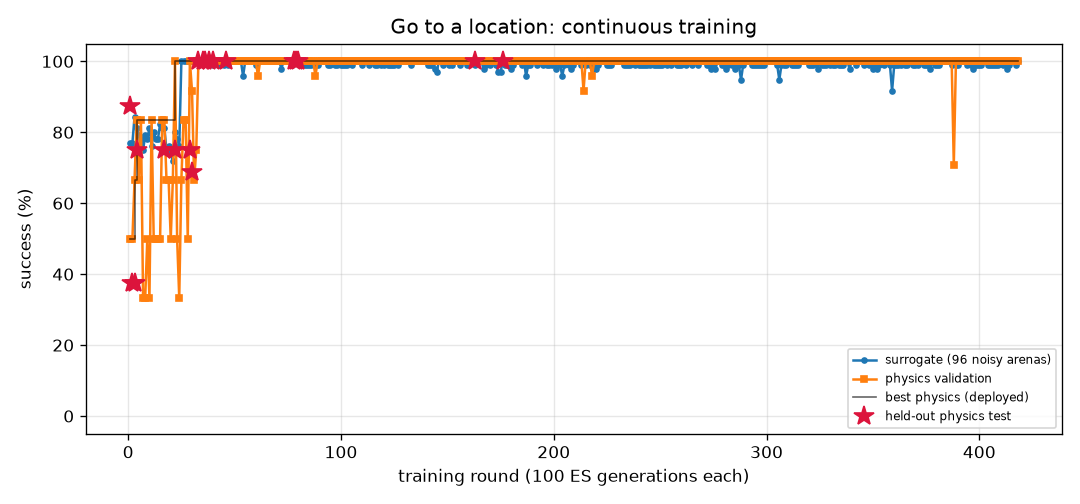
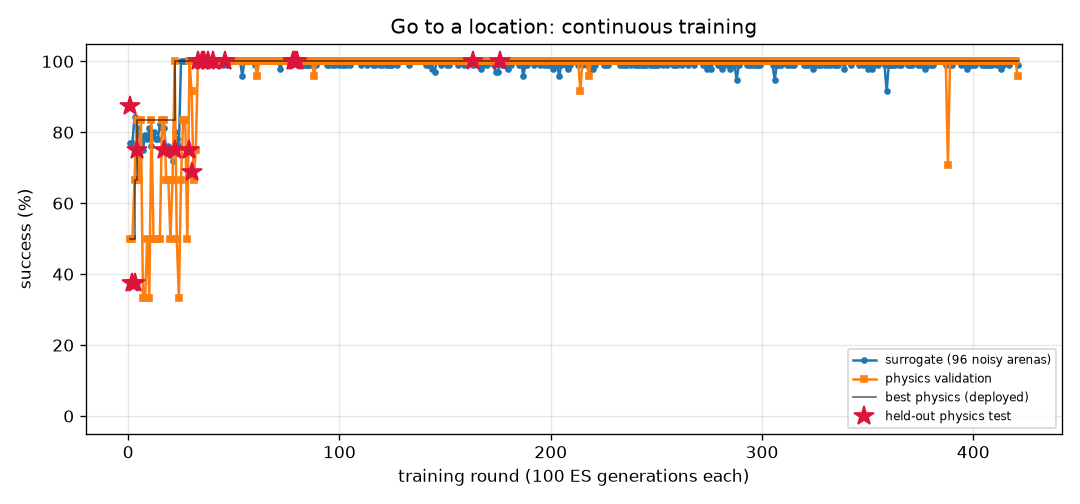
FlyLab: continuous training progress
- walk_forward: optimal, physics val 100% of 24, round 544
- turn: optimal, physics val 100% of 24, round 1374
- goto: optimal, physics val 100% of 24, round 421
- odor_seek: optimal, physics val 100% of 24, round 338
- odor_avoid: optimal, physics val 100% of 24, round 1151
- light_seek: optimal, physics val 100% of 24, round 623
- light_avoid: optimal, physics val 100% of 24, round 863

diff --git a/projects/09_flylab/training/goto/REPORT.md b/projects/09_flylab/training/goto/REPORT.md
@@ -1,14 +1,14 @@
 # Go to a location (`goto`) — training report
 
-*Auto-generated by `train_brains.py`, last updated 2026-11-25T21:44:23.*
+*Auto-generated by `train_brains.py`, last updated 2026-11-26T11:48:16.*
 
 ![curve](curve.png)
 
 | | |
 |---|---|
-| rounds | 418 |
-| ES generations | 41800 |
-| physics runs | 9982 |
+| rounds | 421 |
+| ES generations | 42100 |
+| physics runs | 10054 |
 | status | **optimal** |
 | best brain | round 176: physics validation **100%** on 24 arenas, surrogate 100% |
 | held-out physics test | **100%** on 32 unseen arenas (95% CI 89%-100%) (errors: [0.2, 0.32, 0.19, 0.24, 0.18, 0.2, 0.19, 0.17, 0.22, 0.23, 0.23, 0.26, 0.2, 0.19, 0.24, 0.23, 0.22, 0.24, 0.2, 0.22, 0.2, 0.2, 0.26, 0.19, 0.22, 0.18, 0.26, 0.22, 0.2, 0.26, 0.23, 0.23]) |
@@ -17,9 +17,6 @@ Physics error per arena: mm from target at the end (< 1.5 and standing still = s
 
 | round | level | gens | sigma | surrogate | physics val | val errors | test | note |
 |---:|---:|---:|---:|---:|---:|---|---:|---|
-| 379 | 3 | 37900 | 0.024 | 99% | 100% | [0.57, 0.53, 0.5, 0.35, 0.34, 0.41, 0.56, 0.43, 0.47, 0.36, 0.33, 0.33, 0.45, 0.32, 0.37, 0.42, 0.46, 0.51, 0.38, 0.42, 0.42, 0.34, 0.42, 0.38] |  |  |
-| 380 | 3 | 38000 | 0.025 | 99% | 100% | [0.63, 0.54, 0.55, 0.45, 0.42, 0.41, 0.6, 0.44, 0.58, 0.42, 0.4, 0.43, 0.55, 0.4, 0.43, 0.47, 0.59, 0.5, 0.4, 0.52, 0.44, 0.41, 0.57, 0.43] |  | restart from best |
-| 381 | 3 | 38100 | 0.024 | 99% | 100% | [0.54, 0.56, 0.42, 0.49, 0.41, 0.47, 0.51, 0.53, 0.55, 0.41, 0.41, 0.46, 0.56, 0.46, 0.47, 0.48, 0.57, 0.48, 0.41, 0.51, 0.48, 0.41, 0.57, 0.49] |  |  |
 | 382 | 3 | 38200 | 0.025 | 100% | 100% | [0.55, 0.55, 0.53, 0.56, 0.52, 0.55, 0.57, 0.56, 0.58, 0.53, 0.51, 0.53, 0.57, 0.52, 0.58, 0.57, 0.55, 0.54, 0.53, 0.58, 0.58, 0.55, 0.54, 0.55] |  |  |
 | 383 | 3 | 38300 | 0.024 | 100% | 100% | [0.56, 0.55, 0.5, 0.5, 0.55, 0.5, 0.56, 0.57, 0.59, 0.51, 0.5, 0.49, 0.59, 0.51, 0.55, 0.57, 0.57, 0.5, 0.51, 0.56, 0.57, 0.51, 0.58, 0.5] |  |  |
 | 384 | 3 | 38400 | 0.024 | 100% | 100% | [0.59, 0.54, 0.52, 0.48, 0.53, 0.5, 0.56, 0.57, 0.5, 0.51, 0.51, 0.48, 0.55, 0.49, 0.52, 0.56, 0.56, 0.51, 0.52, 0.51, 0.57, 0.52, 0.56, 0.49] |  | restart from best |
@@ -57,3 +54,6 @@ Physics error per arena: mm from target at the end (< 1.5 and standing still = s
 | 416 | 3 | 41600 | 0.024 | 100% | 100% | [0.56, 0.56, 0.6, 0.54, 0.43, 0.52, 0.54, 0.55, 0.58, 0.43, 0.45, 0.5, 0.59, 0.49, 0.49, 0.5, 0.59, 0.54, 0.43, 0.55, 0.49, 0.41, 0.59, 0.54] |  | restart from best |
 | 417 | 3 | 41700 | 0.024 | 99% | 100% | [0.42, 0.35, 0.32, 0.38, 0.27, 0.33, 0.39, 0.38, 0.41, 0.3, 0.31, 0.36, 0.42, 0.28, 0.35, 0.32, 0.43, 0.31, 0.28, 0.42, 0.3, 0.36, 0.41, 0.36] |  |  |
 | 418 | 3 | 41800 | 0.025 | 100% | 100% | [0.62, 0.55, 0.59, 0.53, 0.45, 0.48, 0.6, 0.52, 0.58, 0.48, 0.47, 0.51, 0.61, 0.42, 0.54, 0.51, 0.62, 0.52, 0.47, 0.6, 0.47, 0.53, 0.6, 0.54] |  |  |
+| 419 | 3 | 41900 | 0.024 | 100% | 100% | [0.5, 0.51, 0.53, 0.46, 0.41, 0.44, 0.53, 0.52, 0.52, 0.43, 0.42, 0.44, 0.53, 0.42, 0.49, 0.48, 0.52, 0.43, 0.42, 0.51, 0.46, 0.45, 0.52, 0.45] |  |  |
+| 420 | 3 | 42000 | 0.024 | 100% | 100% | [0.72, 0.62, 0.5, 0.54, 0.47, 0.53, 0.67, 0.54, 0.6, 0.48, 0.48, 0.54, 0.65, 0.44, 0.51, 0.52, 0.66, 0.59, 0.49, 0.63, 0.5, 0.54, 0.65, 0.54] |  | restart from best |
+| 421 | 3 | 42100 | 0.024 | 99% | 96% | [0.54, 0.46, 0.44, 0.38, 0.34, 0.38, 0.53, 0.36, 0.42, 0.36, 0.34, 0.37, 0.46, 2.18, 0.48, 0.36, 0.46, 0.45, 0.36, 0.41, 0.36, 0.35, 0.44, 0.39] |  |  |

diff --git a/projects/09_flylab/training/light_seek/REPORT.md b/projects/09_flylab/training/light_seek/REPORT.md
@@ -1,14 +1,14 @@
 # Walk toward light (`light_seek`) — training report
 
-*Auto-generated by `train_brains.py`, last updated 2026-11-25T20:48:06.*
+*Auto-generated by `train_brains.py`, last updated 2026-11-26T11:41:41.*
 
 ![curve](curve.png)
 
 | | |
 |---|---|
-| rounds | 620 |
-| ES generations | 62000 |
-| physics runs | 11760 |
+| rounds | 623 |
+| ES generations | 62300 |
+| physics runs | 11832 |
 | status | **optimal** |
 | best brain | round 375: physics validation **100%** on 24 arenas, surrogate 100% |
 | held-out physics test | **100%** on 32 unseen arenas (95% CI 89%-100%) (errors: [0.57, 0.54, 0.53, 0.57, 0.55, 0.56, 0.59, 0.56, 0.53, 0.56, 0.71, 0.56, 0.55, 0.54, 0.53, 0.54, 0.54, 0.55, 0.52, 0.65, 0.64, 0.7, 0.58, 0.57, 0.6, 0.62, 0.55, 0.88, 0.54, 0.52, 0.62, 0.57]) |
@@ -17,9 +17,6 @@ Physics error per arena: mm from target at the end (< 1.5 and standing still = s
 
 | round | level | gens | sigma | surrogate | physics val | val errors | test | note |
 |---:|---:|---:|---:|---:|---:|---|---:|---|
-| 581 | 3 | 58100 | 0.024 | 100% | 100% | [0.69, 0.66, 0.53, 0.56, 0.51, 0.73, 0.63, 0.71, 0.51, 0.54, 0.51, 0.55, 0.58, 0.56, 0.51, 0.65, 0.57, 0.63, 0.63, 0.86, 0.58, 0.64, 0.56, 0.65] |  |  |
-| 582 | 3 | 58200 | 0.024 | 100% | 100% | [0.6, 0.58, 0.53, 0.54, 0.46, 0.61, 0.44, 0.53, 0.54, 0.69, 0.5, 0.45, 0.53, 0.54, 0.67, 0.5, 0.55, 0.55, 0.53, 0.62, 0.59, 0.54, 0.47, 0.69] |  |  |
-| 583 | 3 | 58300 | 0.024 | 100% | 100% | [0.44, 0.45, 0.44, 0.47, 0.47, 0.45, 0.5, 0.69, 0.46, 0.47, 0.47, 0.44, 0.44, 0.44, 0.46, 0.44, 0.45, 0.76, 0.46, 0.45, 0.48, 0.44, 0.48, 0.44] |  | restart from best |
 | 584 | 3 | 58400 | 0.024 | 100% | 92% | [0.6, 0.59, 0.57, 0.57, 0.63, 0.65, 0.6, 0.61, 1.95, 0.59, 0.6, 0.53, 0.6, 0.66, 0.61, 0.64, 0.67, 0.59, 0.58, 0.58, 1.16, 1.81, 0.51, 0.74] |  |  |
 | 585 | 3 | 58500 | 0.024 | 100% | 100% | [0.68, 0.63, 1.01, 0.59, 0.66, 0.63, 0.63, 0.6, 0.74, 0.68, 0.7, 0.6, 0.6, 1.44, 0.56, 0.6, 0.6, 0.69, 0.67, 0.62, 0.71, 0.61, 0.58, 0.66] |  |  |
 | 586 | 3 | 58600 | 0.024 | 100% | 100% | [0.57, 0.61, 0.57, 0.67, 0.65, 0.74, 0.75, 0.64, 0.58, 0.57, 0.63, 0.6, 0.64, 0.69, 0.72, 1.04, 0.67, 0.76, 0.85, 0.63, 0.8, 0.6, 0.54, 0.62] |  |  |
@@ -57,3 +54,6 @@ Physics error per arena: mm from target at the end (< 1.5 and standing still = s
 | 618 | 3 | 61800 | 0.024 | 100% | 92% | [1.03, 0.57, 0.64, 0.64, 0.55, 0.65, 0.63, 0.56, 0.66, 0.61, 0.64, 0.55, 0.66, 0.52, 0.69, 0.68, 0.58, 1.17, 0.63, 0.55, 2.18, 0.64, 0.66, 0.66] |  |  |
 | 619 | 3 | 61900 | 0.024 | 100% | 100% | [0.7, 0.67, 0.69, 0.66, 0.6, 0.65, 0.62, 0.7, 0.64, 0.65, 0.6, 0.57, 0.66, 0.64, 0.69, 0.79, 0.6, 0.6, 0.65, 0.62, 0.63, 0.61, 0.7, 0.68] |  | restart from best |
 | 620 | 3 | 62000 | 0.024 | 100% | 100% | [0.7, 0.56, 0.52, 0.49, 0.51, 0.51, 0.63, 0.69, 0.57, 0.52, 0.49, 0.47, 0.49, 0.56, 0.99, 0.94, 0.55, 0.63, 0.54, 0.51, 0.54, 0.54, 0.6, 0.49] |  |  |
+| 621 | 3 | 62100 | 0.024 | 100% | 96% | [0.55, 0.54, 0.82, 0.54, 0.62, 0.64, 0.85, 0.83, 0.98, 0.6, 0.93, 0.56, 0.88, 0.54, 0.95, 0.58, 0.67, 0.5, 0.8, 0.59, 0.65, 2.33, 0.55, 0.58] |  |  |
+| 622 | 3 | 62200 | 0.024 | 100% | 83% | [1.06, 0.57, 0.57, 0.53, 0.51, 1.74, 0.55, 0.53, 0.56, 0.52, 0.6, 0.55, 0.61, 0.62, 2.65, 0.52, 0.5, 0.6, 0.59, 0.55, 1.64, 0.53, 2.46, 0.66] |  |  |
+| 623 | 3 | 62300 | 0.024 | 100% | 96% | [2.2, 0.63, 0.64, 0.6, 0.65, 0.61, 0.58, 0.67, 0.61, 0.67, 0.72, 0.67, 0.59, 0.71, 0.6, 0.62, 0.63, 0.69, 0.59, 0.65, 0.67, 0.67, 0.69, 0.68] |  | restart from best |

diff --git a/projects/09_flylab/training/light_avoid/REPORT.md b/projects/09_flylab/training/light_avoid/REPORT.md
@@ -1,14 +1,14 @@
 # Hide from light (`light_avoid`) — training report
 
-*Auto-generated by `train_brains.py`, last updated 2026-11-26T10:46:20.*
+*Auto-generated by `train_brains.py`, last updated 2026-11-26T10:55:32.*
 
 ![curve](curve.png)
 
 | | |
 |---|---|
-| rounds | 862 |
-| ES generations | 86200 |
-| physics runs | 20960 |
+| rounds | 863 |
+| ES generations | 86300 |
+| physics runs | 20984 |
 | status | **optimal** |
 | best brain | round 159: physics validation **100%** on 24 arenas, surrogate 100% |
 | held-out physics test | **100%** on 32 unseen arenas (95% CI 89%-100%) (errors: [14.4, 56.1, 58.0, 57.9, 57.5, 14.0, 14.4, 56.6, 56.8, 13.3, 14.1, 56.6, 57.6, 13.1, 57.3, 55.9, 57.2, 55.0, 55.2, 53.9, 55.2, 12.4, 53.8, 53.7, 14.1, 13.7, 55.0, 57.8, 56.2, 13.1, 52.8, 56.5]) |
@@ -17,7 +17,6 @@ Physics error per arena: mm gained away from source (> 6 without first approachi
 
 | round | level | gens | sigma | surrogate | physics val | val errors | test | note |
 |---:|---:|---:|---:|---:|---:|---|---:|---|
-| 823 | 3 | 82300 | 0.024 | 100% | 100% | [45.2, 45.7, 46.0, 44.7, 41.6, 43.5, 46.8, 14.5, 31.4, 13.3, 44.5, 41.0, 14.4, 41.3, 45.9, 44.2, 14.2, 42.5, 44.9, 14.4, 43.6, 44.2, 45.9, 40.1] |  | restart from best |
 | 824 | 3 | 82400 | 0.024 | 100% | 100% | [55.1, 57.7, 57.4, 55.4, 56.9, 55.9, 56.2, 14.5, 52.1, 13.2, 56.7, 56.7, 14.4, 54.5, 57.6, 55.2, 14.2, 57.4, 57.9, 14.4, 54.4, 56.6, 55.8, 56.1] |  |  |
 | 825 | 3 | 82500 | 0.024 | 100% | 100% | [57.2, 59.1, 58.8, 57.5, 58.7, 57.2, 57.5, 14.5, 11.2, 13.3, 57.1, 58.5, 14.4, 56.4, 58.9, 57.0, 14.2, 59.2, 59.4, 14.4, 56.1, 57.4, 57.4, 58.0] |  |  |
 | 826 | 3 | 82600 | 0.024 | 100% | 100% | [53.1, 55.9, 55.9, 53.1, 53.2, 54.2, 55.5, 14.5, 42.4, 13.5, 49.7, 52.8, 14.4, 51.2, 56.0, 52.5, 14.2, 54.0, 56.1, 14.4, 47.4, 51.3, 55.2, 51.9] |  |  |
@@ -57,3 +56,4 @@ Physics error per arena: mm gained away from source (> 6 without first approachi
 | 860 | 3 | 86000 | 0.024 | 100% | 100% | [39.9, 41.0, 42.0, 41.6, 44.3, 42.5, 39.9, 14.5, 39.8, 13.4, 41.4, 44.5, 14.3, 43.4, 43.1, 40.2, 14.2, 44.1, 43.1, 14.4, 38.9, 40.6, 40.0, 43.3] |  |  |
 | 861 | 3 | 86100 | 0.024 | 100% | 100% | [39.4, 40.7, 40.5, 40.4, 41.5, 41.1, 38.3, 14.5, 34.8, 13.5, 38.4, 41.8, 14.4, 40.1, 40.5, 40.5, 14.2, 42.2, 41.4, 14.4, 40.8, 39.6, 37.6, 41.5] |  |  |
 | 862 | 3 | 86200 | 0.024 | 100% | 100% | [49.2, 52.7, 52.7, 50.8, 54.6, 50.7, 50.9, 14.5, 48.0, 13.3, 53.9, 54.5, 14.4, 54.2, 52.6, 49.6, 14.2, 54.7, 52.7, 14.4, 52.2, 54.1, 50.7, 54.4] |  |  |
+| 863 | 3 | 86300 | 0.024 | 100% | 100% | [55.3, 57.4, 57.3, 54.7, 53.8, 54.0, 56.7, 14.5, 50.0, 13.3, 56.2, 53.6, 14.4, 53.2, 57.2, 54.6, 14.2, 55.3, 57.0, 14.4, 55.2, 56.0, 56.9, 52.4] |  | restart from best |

diff --git a/projects/09_flylab/training/TRAINING.md b/projects/09_flylab/training/TRAINING.md
@@ -1,6 +1,6 @@
 # FlyLab brains — continuous training log
 
-*Auto-generated by `train_brains.py`, last updated 2026-11-26T10:48:14.*
+*Auto-generated by `train_brains.py`, last updated 2026-11-26T11:48:16.*
 
 Every skill has its own brain and its own training process: surrogate ES rounds, physics validation in MuJoCo, keep-the-best selection, and a held-out physics test that is never used for selection. See each skill's report for its full round-by-round history. Mastery is progressive: passing a level (100% physics validation, >=95% surrogate) doubles the validation and test arena sets; a brain is **optimal** once it holds up at level 3 (>=95% of 24 validation arenas) AND scores >=90% on the 32 held-out test arenas. Test columns show 95% Wilson confidence intervals.
 
@@ -8,8 +8,8 @@ Every skill has its own brain and its own training process: surrogate ES rounds,
 |---|---:|---:|---:|---:|---:|---:|---|
 | [Walk forward](walk_forward/REPORT.md) | 544 | 54400 | 13134 | 100% | 100% of 24 | 100% of 32 (CI 89-100%) | **optimal** |
 | [Turn in place](turn/REPORT.md) | 1374 | 137400 | 33222 | 100% | 100% of 24 | 97% of 32 (CI 84-99%) | **optimal** |
-| [Go to a location](goto/REPORT.md) | 418 | 41800 | 9982 | 100% | 100% of 24 | 100% of 32 (CI 89-100%) | **optimal** |
+| [Go to a location](goto/REPORT.md) | 421 | 42100 | 10054 | 100% | 100% of 24 | 100% of 32 (CI 89-100%) | **optimal** |
 | [Find food by smell](odor_seek/REPORT.md) | 338 | 33800 | 7606 | 100% | 100% of 24 | 100% of 32 (CI 89-100%) | **optimal** |
 | [Escape a bad smell](odor_avoid/REPORT.md) | 1151 | 115100 | 24930 | 97% | 100% of 24 | 97% of 32 (CI 84-99%) | **optimal** |
-| [Walk toward light](light_seek/REPORT.md) | 620 | 62000 | 11760 | 100% | 100% of 24 | 100% of 32 (CI 89-100%) | **optimal** |
-| [Hide from light](light_avoid/REPORT.md) | 862 | 86200 | 20960 | 100% | 100% of 24 | 100% of 32 (CI 89-100%) | **optimal** |
+| [Walk toward light](light_seek/REPORT.md) | 623 | 62300 | 11832 | 100% | 100% of 24 | 100% of 32 (CI 89-100%) | **optimal** |
+| [Hide from light](light_avoid/REPORT.md) | 863 | 86300 | 20984 | 100% | 100% of 24 | 100% of 32 (CI 89-100%) | **optimal** |
